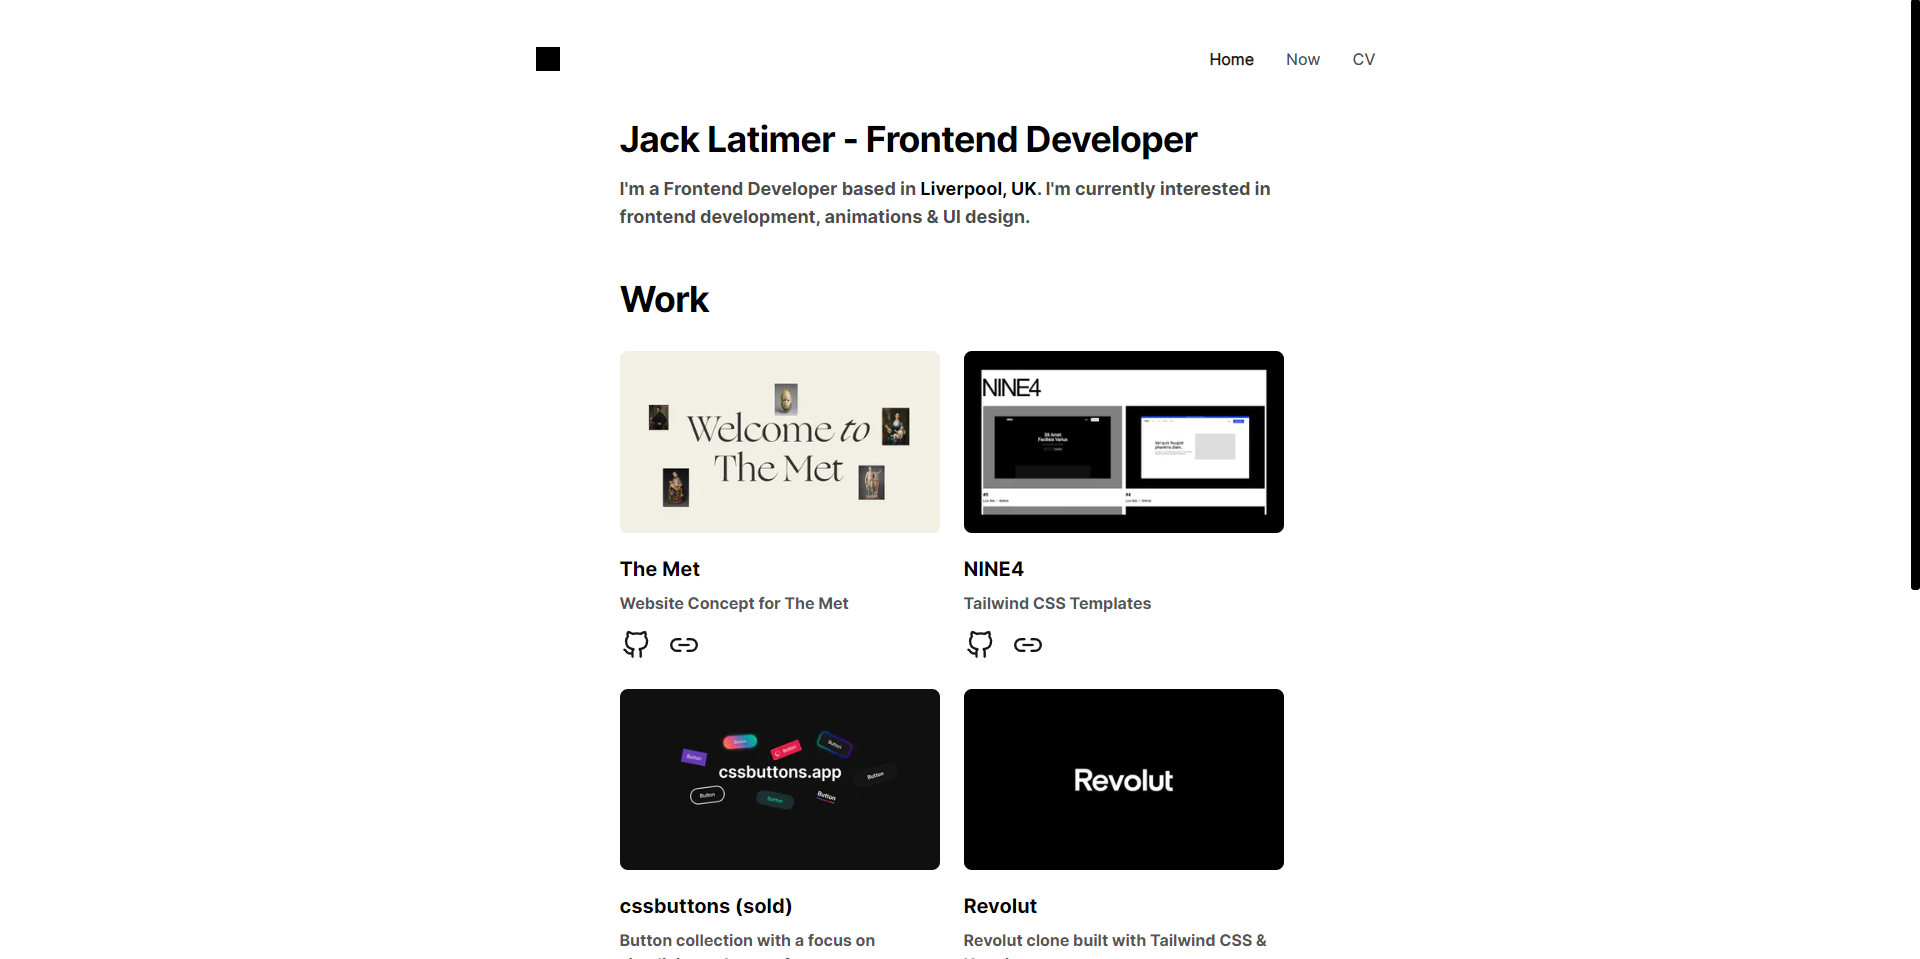
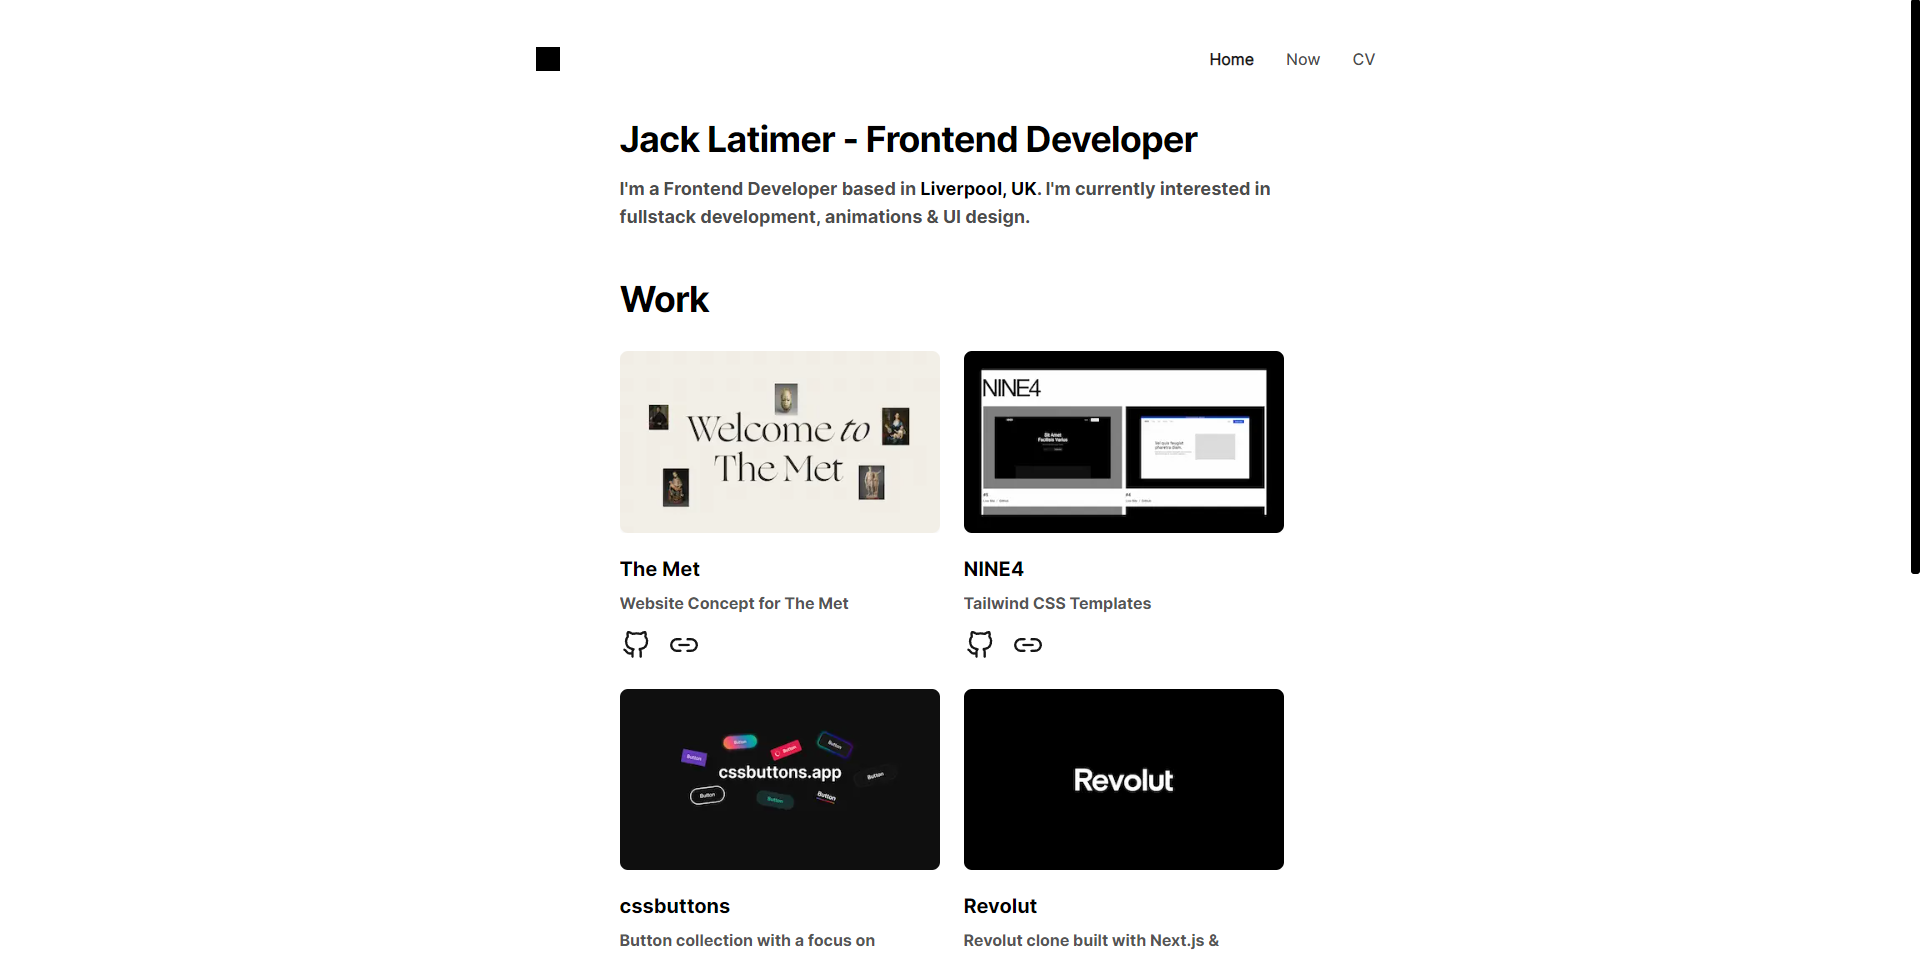
done(projects): added careers page

diff --git a/components/Work/Work.tsx b/components/Work/Work.tsx
@@ -14,7 +14,7 @@ export const projectData = [
     link: "https://nine4.app/",
   },
   {
-    title: "cssbuttons (sold)",
+    title: "cssbuttons",
     image: "/images/cssbuttons",
     description:
       "Button collection with a focus on simplicity and ease of use.",
@@ -24,8 +24,16 @@ export const projectData = [
   {
     title: "Revolut",
     image: "/images/revolut",
-    description: "Revolut clone built with Tailwind CSS & Next.js",
+    description: "Revolut clone built with Next.js & Tailwind CSS",
     github: "https://github.com/r1/revolut",
     link: "https://revolut.vercel.app/",
+  },
+  {
+    title: "Careers Page",
+    image: "/images/careers",
+    description:
+      "Careers page built with Next.js, Framer Motion & Tailwind CSS",
+    github: "https://github.com/r1/Careers-Page",
+    link: "https://careerspage.vercel.app/",
   },
 ];

diff --git a/components/Skills/Skills.tsx b/components/Skills/Skills.tsx
@@ -1,6 +1,6 @@
 /* eslint-disable @next/next/no-html-link-for-pages */
 
-function Skills() {
+export default function Skills() {
   return (
     <section className="mb-1 mt-14 lg:mb-6">
       <h3 className="mb-1 p-4 text-3xl tracking-tight text-black md:p-4 md:text-4xl lg:mb-8 lg:p-0">
@@ -18,6 +18,7 @@ function Skills() {
           <h2 className="text-lg text-gray-800">Frameworks & Libraries</h2>
           <h3 className="text-gray-700">React.js</h3>
           <h3 className="text-gray-700">Next.js</h3>
+          <h3 className="text-gray-700">Framer Motion</h3>
           <h3 className="text-gray-700">Tailwind CSS</h3>
         </div>
         <div className="flex flex-col space-y-4 pl-0 pt-12 sm:pl-24 sm:pt-0">
@@ -30,5 +31,3 @@ function Skills() {
     </section>
   );
 }
-
-export default Skills;

diff --git a/components/Home/Layout.tsx b/components/Home/Layout.tsx
@@ -2,8 +2,6 @@
 import React, { useEffect, useState } from "react";
 import Projects from "@/components/Work/Projects";
 import Skills from "@/components/Skills/Skills";
-import bannerImg1 from "@/public/images/Liverpool.jpg";
-import bannerImg2 from "@/public/images/Liverpool1.jpg";
 
 const images = [
   "/images/Liverpool.jpg",
@@ -47,7 +45,7 @@ export default function HomePage() {
               />
             </div>
           </div>
-          . I&apos;m currently interested in frontend development, animations &
+          . I&apos;m currently interested in fullstack development, animations &
           UI design.
         </h2>
         <Projects />
